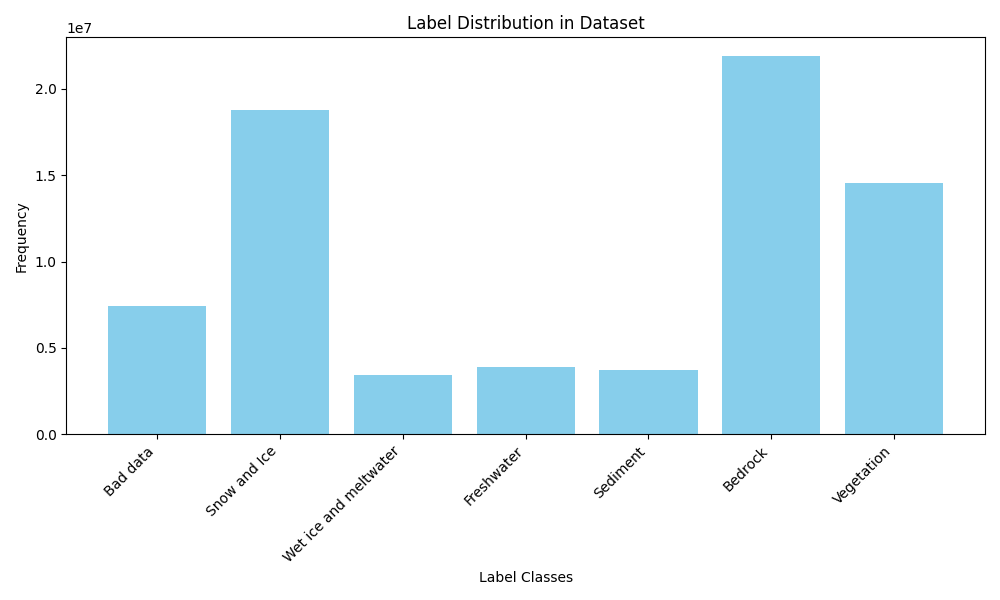
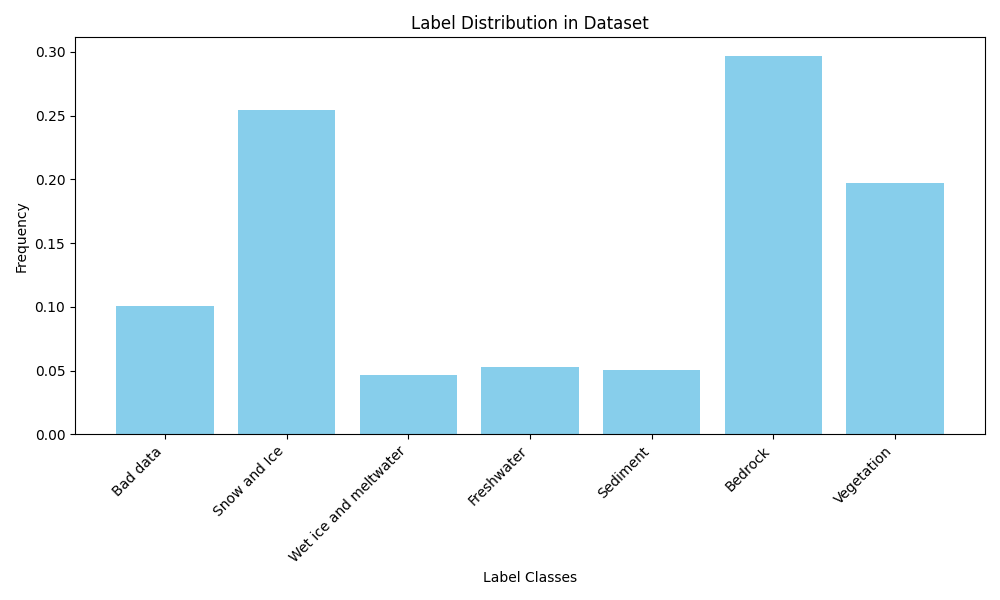
fix frequency plot

diff --git a/Baseline_project.py b/Baseline_project.py
@@ -414,10 +414,14 @@ print('Testing:  Loss: {:.2f}  OA: {:.2f}'.format(loss_test, 100*oa_test))
 def visualize(dataLoader, epoch = 'latest', numImages=5):
     model, _ = load_model(epoch)
     model = model.to(device)
+    label_counter = Counter()
+    pred_counter =  Counter()
     for idx, (data, labels, image_name) in enumerate(dataLoader):
         if idx == numImages:
             break
-
+        unique_label, counts_label = np.unique(labels, return_counts=True)
+        label_counter.update(dict(zip(unique_label, counts_label)))
+        
         _, ax = plt.subplots(nrows=1, ncols=2, figsize = (20, 15))
   
         labels = labels.to(device)
@@ -432,12 +436,33 @@ def visualize(dataLoader, epoch = 'latest', numImages=5):
 
             # get the label (i.e., the maximum position for each pixel along the class dimension)
             yhat = torch.argmax(pred, dim=1)
+            
+            unique_pred, counts_pred = np.unique(yhat.cpu().numpy(), return_counts=True)
+            pred_counter.update(dict(zip(unique_pred, counts_pred)))
 
             # plot model predictions
             ax[1].imshow(yhat.squeeze(0).cpu().numpy(), cmap='tab20', vmin=0, vmax=len(label_names) - 1)
             ax[1].axis('off')
             ax[1].set_title(image_name[0])
         plt.savefig(f'{path_to_plot}/{image_name[0]}.png')
+    class_counts_labels = [label_counter.get(i, 0) for i in range(len(label_names))]
+    class_counts_pred = [pred_counter.get(i, 0) for i in range(len(label_names))]
+    fig, ax = plt.subplots(figsize=(20, 8))
+    width = 0.35  # width of the bars
+    x = np.arange(len(label_names))  # the label positions
+
+    # Plot the bars for ground truth (blue) and predicted classes (green)
+    ax.bar(x - width / 2, np.array(class_counts_labels)/len(class_counts_labels), width, label='Ground Truth', color='blue', alpha=0.7)
+    ax.bar(x + width / 2, np.array(class_counts_pred)/len(class_counts_pred), width, label='Predicted', color='green', alpha=0.7)
+
+    # Set the labels and titles
+    ax.set_title('Class Frequency Comparison: Ground Truth vs. Predicted')
+    ax.set_xlabel('Class')
+    ax.set_ylabel('Frequency')
+    ax.set_xticks(x)
+    ax.set_xticklabels(label_names, rotation=45)
+    ax.legend()
+    plt.savefig(f'{path_to_plot}/Label_distribution.png')
         
 # visualize predictions for a number of epochs
 # load model states at different epochs

diff --git a/test.py b/test.py
@@ -105,10 +105,10 @@ def plot_label_distribution(dataset):
     # Map label indices to class names
     class_names = LABEL_CLASSES
     class_counts = [label_counter.get(i, 0) for i in range(len(class_names))]
-
+    #print(sum(class_counts))
     # Plot the distribution
     plt.figure(figsize=(10, 6))
-    plt.bar(class_names, class_counts, color='skyblue')
+    plt.bar(class_names, np.array(class_counts) / sum(class_counts), color='skyblue')
     plt.xlabel('Label Classes')
     plt.ylabel('Frequency')
     plt.title('Label Distribution in Dataset')
